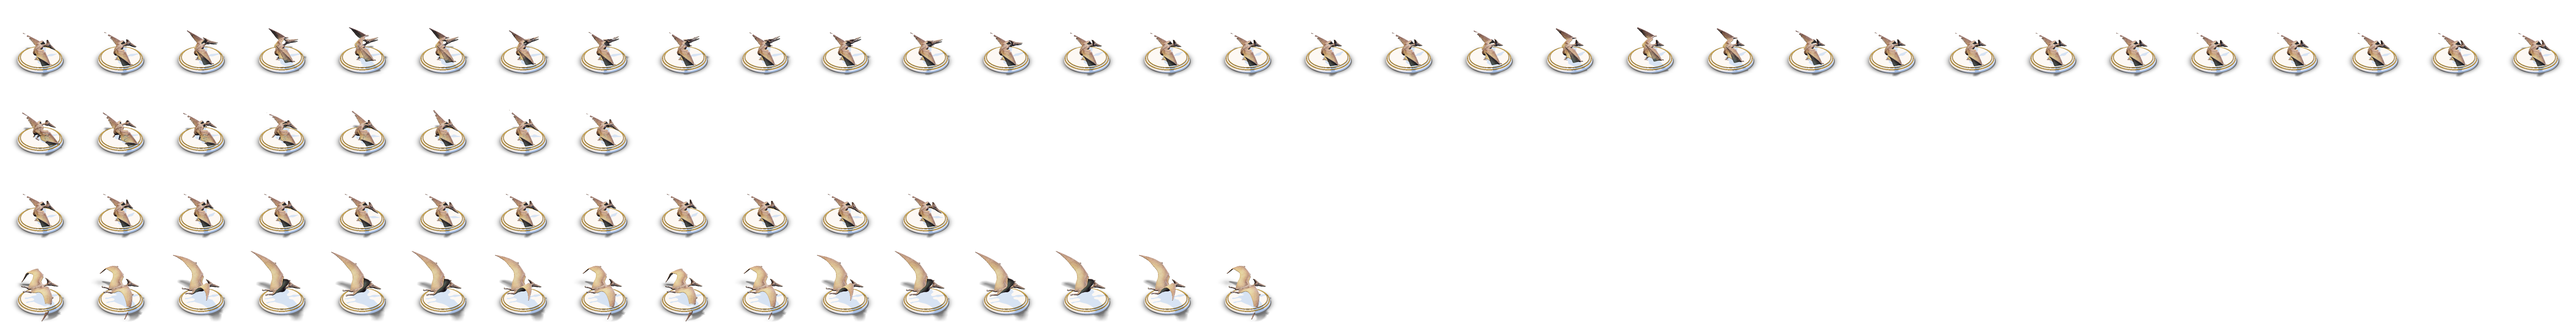
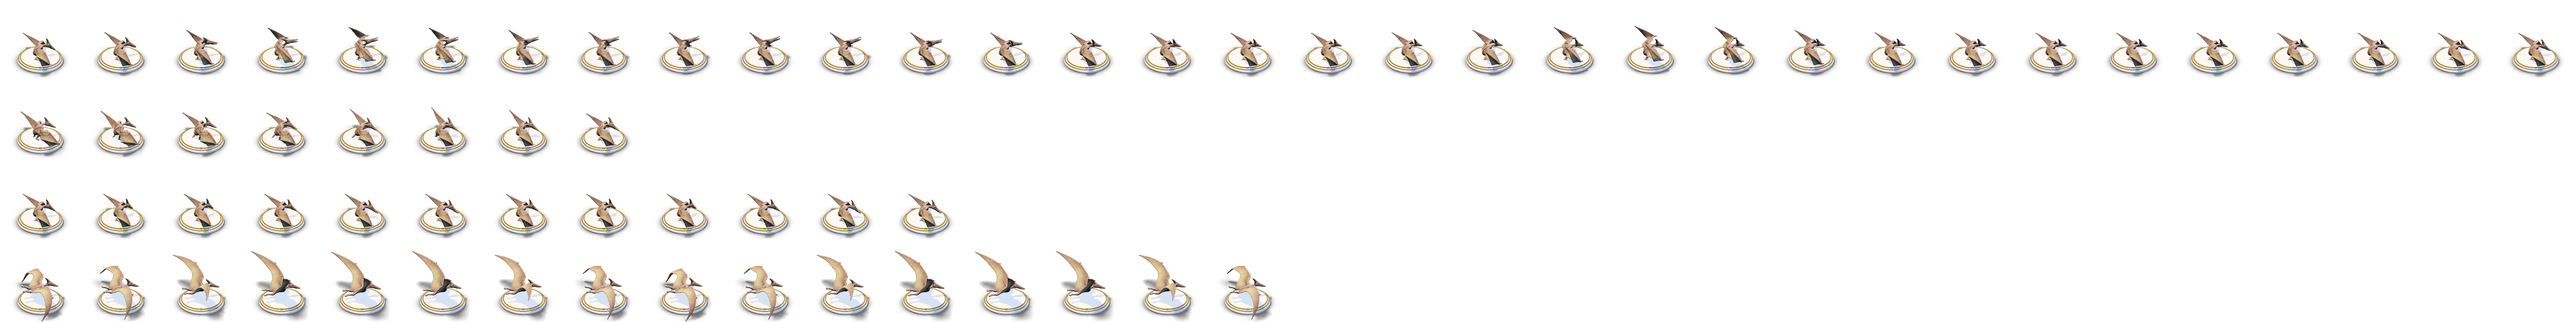
pteranodon figurine: the grid SDF's outward chamfer adds h per step (Chebyshev, a lower bound) instead of h*sqrt(3) (an overestimate along the axes): the rays jumped over the thin upper beak in some idle frames (head raised, wings coming down), a dark gap on the head like a misplaced shadow; sprites

diff --git a/app/tools/sprites/gltf_mesh.py b/app/tools/sprites/gltf_mesh.py
@@ -252,10 +252,15 @@ def grid_part(points, colors, h, thickness, band=3, pad=0.03):
     dist[near] = (key[near] >> 24).to(F) / 1e4 * h
     col = torch.zeros(nvox, 3, device=DEV)
     col[near] = colors[key[near] & ((1 << 24) - 1)]
-    # chamfer outward: each pass lets the distance grow by at most one cell step
+    # chamfer outward: each pass lets the distance grow by one cell step h, whatever the
+    # neighbour (axial, face or corner diagonal): h × the number of steps is the Chebyshev
+    # distance, never more than the true one, so a ray marched on it cannot jump over a
+    # thin part. (h√3 per step, as before, overestimated by up to √3 along the axes: the
+    # rays went through the pteranodon's thin upper beak in some frames, a dark gap
+    # on the head that looked like a misplaced shadow.)
     g = dist.reshape(1, 1, D, Hh, W)
     for _ in range(int(max(D, Hh, W))):
-        m = -torch.nn.functional.max_pool3d(-g, 3, 1, 1) + h * math.sqrt(3)
+        m = -torch.nn.functional.max_pool3d(-g, 3, 1, 1) + h
         g2 = torch.minimum(g, m)
         if torch.equal(g2, g):
             break
